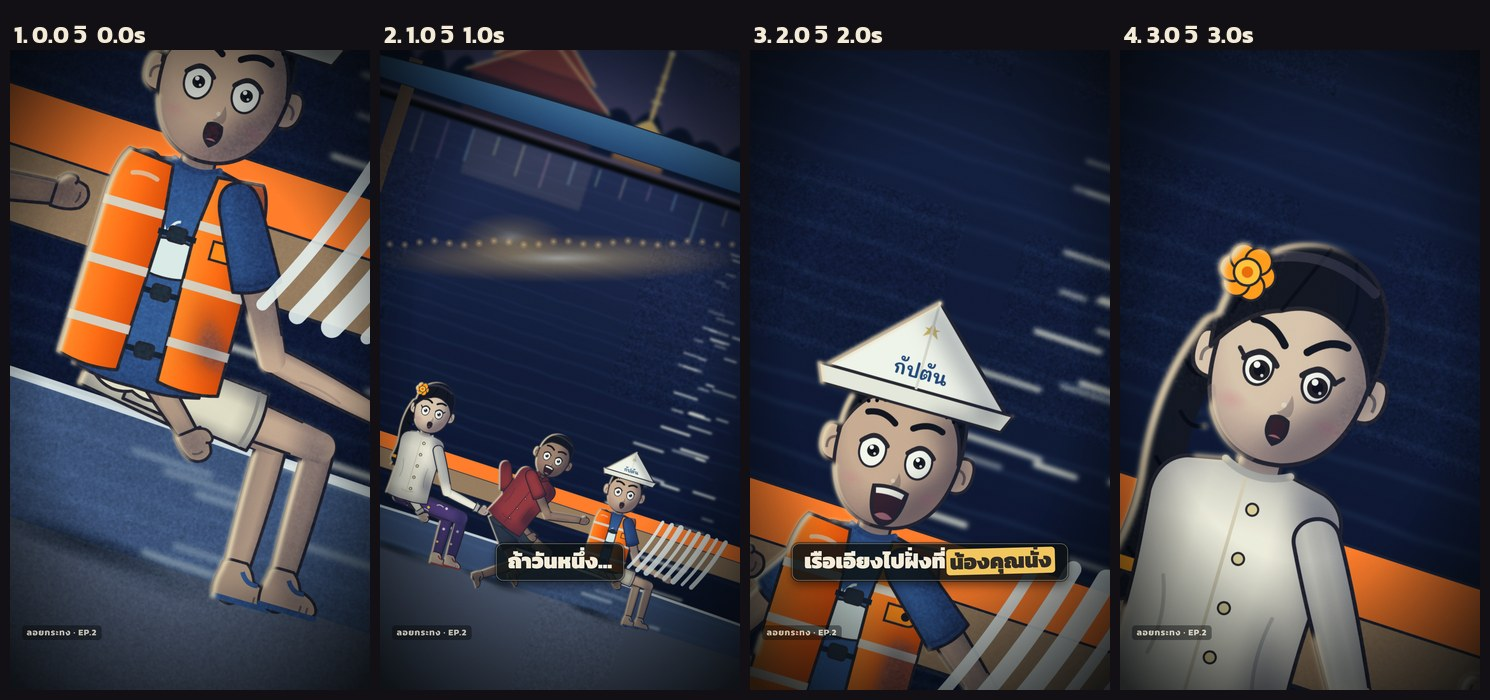
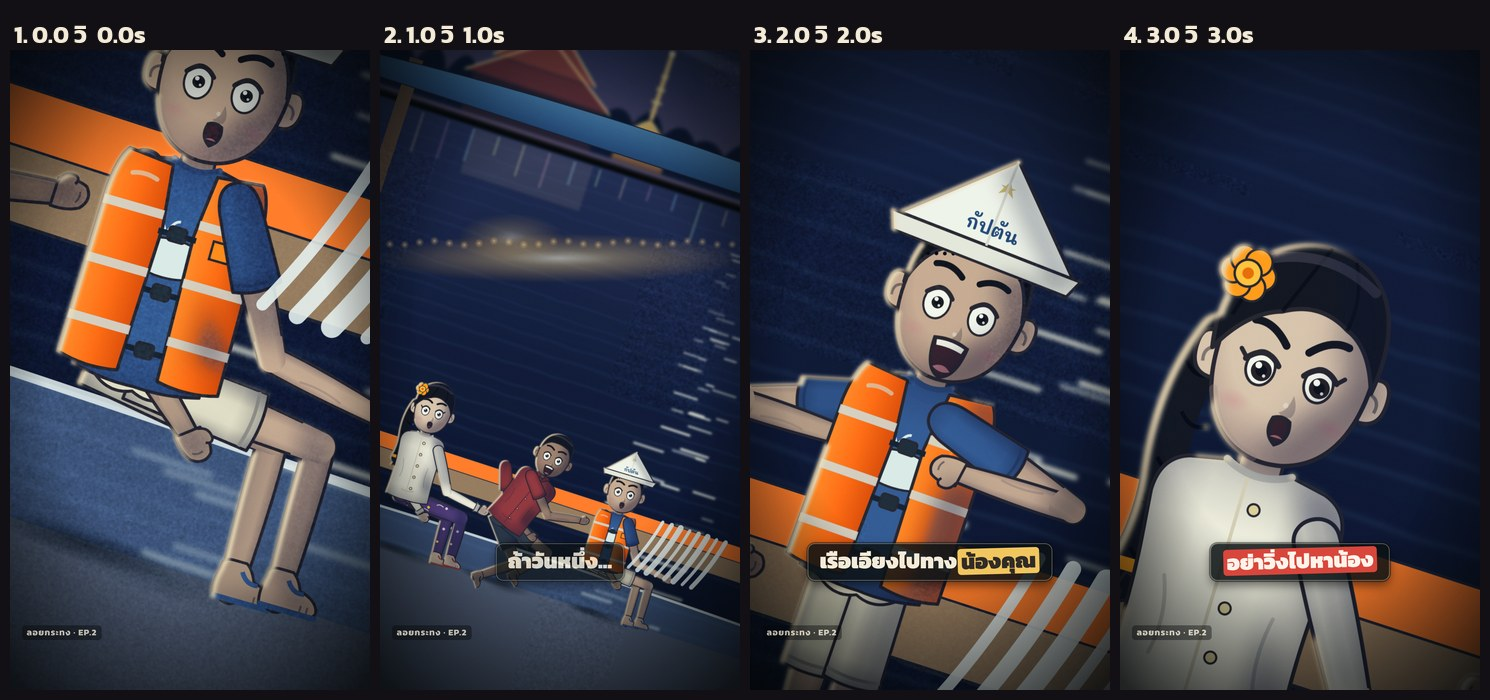
krathong EP.1 storyboard fixes (3 faces max on the boat, hook ECU moves from frame 0, roll cover zoom, F3 sign, HG7 card); EP.1/EP.2 on lane B 68308bd
Claude-Session: https://claude.ai/code/session_017iwyCuqgwupug85dXqQKB5

diff --git a/video/krathong-ep1/production/plan.py b/video/krathong-ep1/production/plan.py
@@ -29,7 +29,7 @@ C = [
  ("maan", st("maan"), "uneasy", "MS", "eye", "pushIn", "แกลลอน", "ไฟโป๊ะ", {"note": "บทพูด 4 บรรทัด 11.5 วิ (ลุง น้าหมาน ข้าวปั้น ยาย) กล้องแพนตามคนพูดในฉากเดียว แทนการตัด"}),
  ("sign", st("sign"), "uneasy", "CU", "eye", "pushIn", "ไหล่ยาย", "ไฟโป๊ะ", {"note": "ป้าย 12 คน แล้วดึงออกเห็นเรือที่จมลึกออกจากท่า 10.8 วิ บรรยายต่อเนื่อง"}),
  ("fire", st("fire"), "fear", "WS", "eye", "dutch", "หลังคาเรือ", "ไฟพลุ", {"deg": 10, "note": "คนออข้างเดียว เรือเอียงกลางแม่น้ำ บทตะโกน 3 คน 8.2 วิ ใช้ dutch ค้างตลอด"}),
- ("sit", st("sit"), "uneasy", "MS", "eye", "pushIn", "คานหลังคา", "ไฟพลุ", {"note": "ข้าวปั้นเป่านกหวีด คนนั่ง เรือหายเอียง แล้วบรรยายสอน 9.8 วิ"}),
+ ("sit", st("sit"), "uneasy", "MS", "eye", "pushIn", "คานหลังคา", "ไฟพลุ", {"command": False, "note": "ข้าวปั้นเป่านกหวีด คนนั่ง เรือหายเอียง แล้วบรรยายสอน 9.8 วิ · n09 {อย่านั่งบนกราบเรือ} เป็นกฎกลางเรื่อง ไม่ใช่คำสั่ง (ใช้ dip สั้น)"}),
  ("float", st("float"), "safe", "MCU", "eye", "pushIn", "กระทงลอย", "เทียนกระทง", {}),
  ("back", st("back"), "uneasy", "WS", "low", "pushIn", "กระทงริมน้ำ", "ไฟเรือแพปาร์ตี้", {"threat_first": True, "lead_sound": 1.5, "silhouette": True, "note": "เสียงเบสเพลงจากเรือแพมาก่อนภาพ 1.5 วิ เห็นเรือแพเป็นเงาย้อนแสง"}),
  ("hit", st("hit"), "fear", "MS", "eye", "shake", "เสาโป๊ะ", "ไฟโป๊ะ", {"note": "คลื่นซัด คนเด้งหนีน้ำ เรือชนโป๊ะ บรรยาย n11 ต่อเนื่อง 5.6 วิ"}),

diff --git a/video/krathong-ep2/production/timing.py b/video/krathong-ep2/production/timing.py
@@ -19,7 +19,7 @@ LINES = {ln["id"]: ln for ln in json.load(open(os.path.join(HERE, "lines.json"))
 SHOTS_ALL = {
     "ep1": [
         ("open", ["n01"], 0.05, 0.0, 1.0),            # low at the waterline: the overloaded boat sliding at the bright pontoon, red stripe under water, knees rising
-        ("hook", ["n02"], 0.30, 0.3, 1.6),            # command: push in on the rising knees
+        ("hook", ["n02"], 0.30, 0.3, 1.6),            # CINEMA BIBLE: 0.3 s before "อย่า" · command: push in on the rising knees
         ("card", ["n03"], 0.15, 0.4, 2.0),            # ยาย's thumb rolls the brass counter 0019 → 0000, "แกร๊ก"
         ("est", ["y01"], 0.3, 0.5, 3.4),              # establishing ท่ายายหยิบ: temple across the river, krathong stall, the boat moored
         ("kids", ["k01", "m01", "m06", "y15", "l01"], 0.12, 0.3, 3.0),
@@ -47,7 +47,7 @@ SHOTS_ALL = {
     ],
     "ep2": [
         ("open", ["n01"], 0.05, 0.0, 1.0),
-        ("hook", ["n02"], 0.30, 0.3, 1.6),   # 0.3 s before อย่า (CINEMA BIBLE §3)
+        ("hook", ["n02"], 0.30, 0.3, 1.6),            # CINEMA BIBLE: 0.3 s before "อย่า"
         ("recap", ["n03"], 0.12, 0.3, 3.0),           # Shorts only
         ("climb", ["x01", "n04"], 0.1, 0.3, 3.0),
         ("rule", ["y01", "r01", "n05", "m01", "k01"], 0.12, 0.3, 3.0),

diff --git a/video/krathong-ep1/production/timing.py b/video/krathong-ep1/production/timing.py
@@ -19,7 +19,7 @@ LINES = {ln["id"]: ln for ln in json.load(open(os.path.join(HERE, "lines.json"))
 SHOTS_ALL = {
     "ep1": [
         ("open", ["n01"], 0.05, 0.0, 1.0),            # low at the waterline: the overloaded boat sliding at the bright pontoon, red stripe under water, knees rising
-        ("hook", ["n02"], 0.30, 0.3, 1.6),            # command: push in on the rising knees
+        ("hook", ["n02"], 0.30, 0.3, 1.6),            # CINEMA BIBLE: 0.3 s before "อย่า" · command: push in on the rising knees
         ("card", ["n03"], 0.15, 0.4, 2.0),            # ยาย's thumb rolls the brass counter 0019 → 0000, "แกร๊ก"
         ("est", ["y01"], 0.3, 0.5, 3.4),              # establishing ท่ายายหยิบ: temple across the river, krathong stall, the boat moored
         ("kids", ["k01", "m01", "m06", "y15", "l01"], 0.12, 0.3, 3.0),
@@ -47,7 +47,7 @@ SHOTS_ALL = {
     ],
     "ep2": [
         ("open", ["n01"], 0.05, 0.0, 1.0),
-        ("hook", ["n02"], 0.04, 0.3, 1.6),
+        ("hook", ["n02"], 0.30, 0.3, 1.6),            # CINEMA BIBLE: 0.3 s before "อย่า"
         ("recap", ["n03"], 0.12, 0.3, 3.0),           # Shorts only
         ("climb", ["x01", "n04"], 0.1, 0.3, 3.0),
         ("rule", ["y01", "r01", "n05", "m01", "k01"], 0.12, 0.3, 3.0),

diff --git a/video/krathong-ep1/production/README.md b/video/krathong-ep1/production/README.md
@@ -1,11 +1,7 @@
 # เรือล่มคืนลอยกระทง EP.1 (Shorts 9:16) · งานภาพเลน D
 
 - บทและเสียง: เลน B (`prod/lane-b` f7326514 · `video/krathong/ep1`)
-- ไฟล์ในโฟลเดอร์นี้ที่ต่างจากของเลน B (ตามคู่มือภาพยนตร์ ไม่ได้อัดเสียงใหม่ ใช้ mp3 cache เดิม):
-  - `lines.json`:
-    - n02 tempo 1.044 และ y16 tempo 0.957 (× 0.87 สำหรับประโยคคำสั่ง)
-    - ซับ y14 และ n09 เปลี่ยนจากกล่องแดงเป็นกล่องเหลือง เพราะไม่ใช่คำสั่งในฮุกหรือตอนเลือก
-  - `timing.py`: pre-roll ช็อต hook 0.30 วิ (เว้นก่อน "อย่า" ≥ 0.3)
-- แผนตามคู่มือ: `shotlist.json` · `colorscript.json` · `soundplan.json` (สร้างจาก `plan.py`)
+- `lines.json` · `schedule.json` · `timing.py` ตรงกับเลน B `68308bd` (ใส่ 4 จุดตามคู่มือแล้ว · n09 คงกล่องแดง และคัตของ n09 ตั้ง `"command": false`)
+- แผนตามคู่มือ: `shotlist.json` · `colorscript.json` · `soundplan.json` (สร้างจาก `plan.py`) · ใช้ `shotlist_check.py` ตัวที่รองรับ `"command": false` (730cdb7)
 - ตรวจ: `python3 .claude/skills/rodmai-club-video/scripts/shotlist_check.py --schedule schedule.json --shotlist shotlist.json --soundplan soundplan.json`
 - สวิตช์กล้องของ cine (parallax handheld dutch whip shake) ทั้งตอน: `CINE_CAM=0 python3 make.py` · สี vignette และ grain ยังเปิด

diff --git a/video/krathong-ep2/production/README.md b/video/krathong-ep2/production/README.md
@@ -1,8 +1,6 @@
 # เรือล่มคืนลอยกระทง EP.2 (Shorts 9:16) · งานภาพเลน D
 
 - บทและเสียง: เลน B (`prod/lane-b` f7326514 · `video/krathong/ep2`)
-- ไฟล์ที่ต่างจากของเลน B (ใช้ mp3 cache เดิม ไม่ได้อัดเสียงใหม่):
-  - `lines.json`: n02 tempo × 0.87
-  - `timing.py`: pre-roll ช็อต hook 0.30 วิ · คำสั่งขึ้นที่ 3.24 วิ (ไม่เกิน 3.5 แต่เกินเป้า 3.0 เพราะ n01 ยาว 2.89 วิ)
+- `lines.json` · `schedule.json` · `timing.py` ตรงกับเลน B `68308bd` (ประโยคเปิดใหม่ · คำสั่งขึ้นที่ 2.78 วิ)
 - แม่แบบ head/helpers/kit/sigcard อยู่ใน `video/krathong-ep1/production/` · ช็อตของตอนนี้ใช้ `common.part` ร่วมกับ EP.1
 - แผนตามคู่มือ: `shotlist.json` · `colorscript.json` · `soundplan.json` (สร้างจาก `plan.py`)
